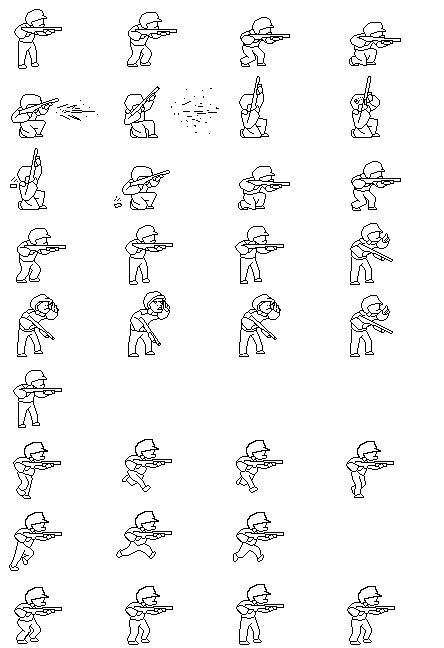
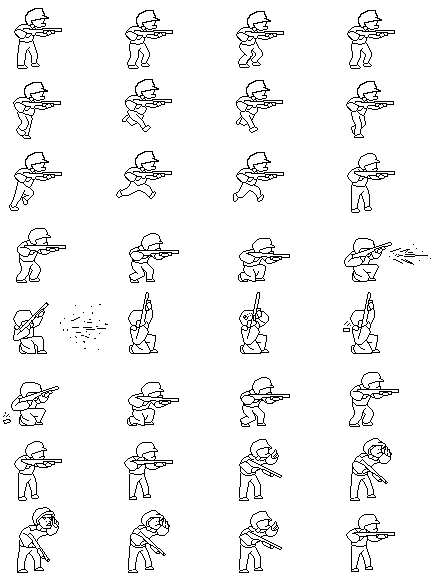
* Added end taunt to fight. PeaceKeeper has one.

diff --git a/MobileClient/www/Javascript/FightRendering/FightRenderingEvents.js b/MobileClient/www/Javascript/FightRendering/FightRenderingEvents.js
@@ -8,23 +8,24 @@
 // Supported render events that user can subscribe to.
 var FightRenderingEvents = {
 		Fight: {
-			INITIALIZE:		"ft.fight.initialize",				// Arguments: event
-			SHOW_UP_FINISH:	"ft.fight.show_up_finish",			// Arguments: event
-			ATTACK:			"ft.fight.attack",					// Arguments: event, unit
-			ATTACK_FINISH:	"ft.fight.attack_finish",			// Arguments: event
-			IDLE:			"ft.fight.idle",					// Arguments: event
-			UNINITIALIZE:	"ft.fight.uninitialize",			// Arguments: event
+			INITIALIZE:		"ft.fight.initialize",				// Arguments: 
+			SHOW_UP_FINISH:	"ft.fight.show_up_finish",			// Arguments: 
+			ATTACK:			"ft.fight.attack",					// Arguments: unit
+			ATTACK_FINISH:	"ft.fight.attack_finish",			// Arguments: 
+			END_TAUNT:		"ft.fight.end_taunt",				// Arguments: unit
+			IDLE:			"ft.fight.idle",					// Arguments: 
+			UNINITIALIZE:	"ft.fight.uninitialize",			// Arguments: 
 		},
 
 		Animations: {
-			FIRE:			"ft.animations.fire",				// Arguments: event, animData, {weaponType, final},
-			HURT:			"ft.animations.hurt",				// Arguments: event, unit, {weaponType, final},
-			HURT_FINISH:	"ft.animations.hurt_finish",		// Arguments: event, unit
+			FIRE:			"ft.animations.fire",				// Arguments: animData, {weaponType, final},
+			HURT:			"ft.animations.hurt",				// Arguments: unit, {weaponType, final},
+			HURT_FINISH:	"ft.animations.hurt_finish",		// Arguments: unit
 		},
 
 		Units: {
-			UNIT_MOVED: "ft.units.moved",						// Arguments: event, fightUnit
-			UNIT_KILLED: "ft.units.unit_killed",				// Arguments: event, fightUnit
+			UNIT_MOVED: "ft.units.moved",						// Arguments: fightUnit
+			UNIT_KILLED: "ft.units.unit_killed",				// Arguments: fightUnit
 		},
 };
 

diff --git a/MobileClient/www/Javascript/FightRendering/Systems/FightUnitsAnimationsController.js b/MobileClient/www/Javascript/FightRendering/Systems/FightUnitsAnimationsController.js
@@ -20,6 +20,7 @@ var FightUnitsAnimationsController = function () {
 
 		self._eworldSB.subscribe(FightRenderingEvents.Fight.ATTACK, onAttack);
 		self._eworldSB.subscribe(FightRenderingEvents.Fight.ATTACK_FINISH, all2Idle);
+		self._eworldSB.subscribe(FightRenderingEvents.Fight.END_TAUNT, onEndTaunt);
 
 		self._eworldSB.subscribe(FightRenderingEvents.Animations.HURT, onHurt);
 		self._eworldSB.subscribe(FightRenderingEvents.Animations.HURT_FINISH, onHurtFinish);
@@ -60,6 +61,15 @@ var FightUnitsAnimationsController = function () {
 			if (!IdleAnimationsSystem.playsIdleAnimation(animator)) {
 				IdleAnimationsSystem.playRandomIdleAnimation(animator);
 			}
+		}
+	}
+
+	var onEndTaunt = function (unit) {
+
+		var animator = unit.CAnimations.animators[FightUnitsRenderingSystem.MAIN_SPRITE];
+
+		if (animator.hasSequence('Taunt')) {
+			animator.playSequence('Taunt');
 		}
 	}
 

diff --git a/MobileClient/www/Assets/Render/SpriteAnimations/FightUnits/PeaceKeeperFight.js b/MobileClient/www/Assets/Render/SpriteAnimations/FightUnits/PeaceKeeperFight.js
@@ -13,8 +13,6 @@ SpriteAnimations.FightUnits.PeaceKeeper = {
 	sequences: [
 		{
 			name: 'Idle',
-			startX: 0,
-			startY: 576,
 			startIndex: 1,
 			frames: 1,
 		},
@@ -23,26 +21,23 @@ SpriteAnimations.FightUnits.PeaceKeeper = {
 		{
 			name: 'Idle0',
 			speed: 20,
-			startX: 0,
-			startY: 576,
+			startIndex: 0,
 			frames: 4,
 		},
 		
 		{
 			name: 'Run',
 			speed: 10,
-			startX: 0,
-			startY: 432,
+			startIndex: 5,
 			frames: 7,
 			wrapMode: Animator.WrapMode.Loop,
 		},
 
 		{
 			name: 'Attack',
-			speed: 8,
+			speed: 11,
 			frameSpeeds: [0, 0, 0, 0, 4, 4, 4, 0],
-			startX: 0,
-			startY: 0,
+			startIndex: 11,
 			frames: 14,
 
 			events: [
@@ -56,6 +51,13 @@ SpriteAnimations.FightUnits.PeaceKeeper = {
 					}
 				},
 			],
+		},
+
+		{
+			name: 'Taunt',
+			speed: 20,
+			startIndex: 25,
+			frames: 7,
 		},
 
 	]

diff --git a/MobileClient/www/Javascript/FightRendering/Systems/FightControllerSystem.js b/MobileClient/www/Javascript/FightRendering/Systems/FightControllerSystem.js
@@ -19,6 +19,8 @@ var FightControllerSystem = function (m_renderer) {
 		attackLeft: null,
 		attackRight: null,
 		attackFinish: null,
+		endTauntLeft: null,
+		endTauntRight: null,
 	}
 	
 	//
@@ -140,6 +142,12 @@ var FightControllerSystem = function (m_renderer) {
 
 		self._eworld.trigger(FightRenderingEvents.Fight.ATTACK_FINISH);
 
+		m_timeouts.endTauntLeft = setTimeout(function () { onEndTaunt(m_leftUnit); }, 250);
+		m_timeouts.endTauntRight = setTimeout(function () { onEndTaunt(m_rightUnit); }, 750);
+	}
+
+	var onEndTaunt = function (unit) {
+		self._eworld.trigger(FightRenderingEvents.Fight.END_TAUNT, unit);
 	}
 
 	var onFire = function (animData, params) {

diff --git a/MobileClient/www/Assets/Render/SpriteAnimations/Units/PeaceKeeper.js b/MobileClient/www/Assets/Render/SpriteAnimations/Units/PeaceKeeper.js
@@ -12,8 +12,6 @@ SpriteAnimations.Units.PeaceKeeper = {
 	sequences: [
 		{
 			name: 'Idle',
-			startX: 0,
-			startY: 144,
 			startIndex: 1,
 			frames: 1,
 		},
@@ -21,19 +19,15 @@ SpriteAnimations.Units.PeaceKeeper = {
 		{
 			name: 'Idle0',
 			speed: 20,
-			startX: 0,
-			startY: 0,
-			frames: 7,
+			startIndex: 0,
+			frames: 4,
 		},
 		
 		{
 			name: 'Attack',
 			speed: 10,
-			startX: 0,
-			startY: 0,
-			frames: 7,
-			wrapMode: Animator.WrapMode.Loop,
-			duration: 3000,
+			startIndex: 11,
+			frames: 14,
 		},
 		
 	]

diff --git a/MobileClient/www/index.html b/MobileClient/www/index.html
@@ -71,8 +71,8 @@
 					<table id="StoreList" class="dialog_body">
 						<tbody>
 							<tr>
-								<td>Unit</td>
-								<td>Price</td>
+								<th>Unit</th>
+								<th>Price</th>
 							</tr>
 						</tbody>
 					</table>
